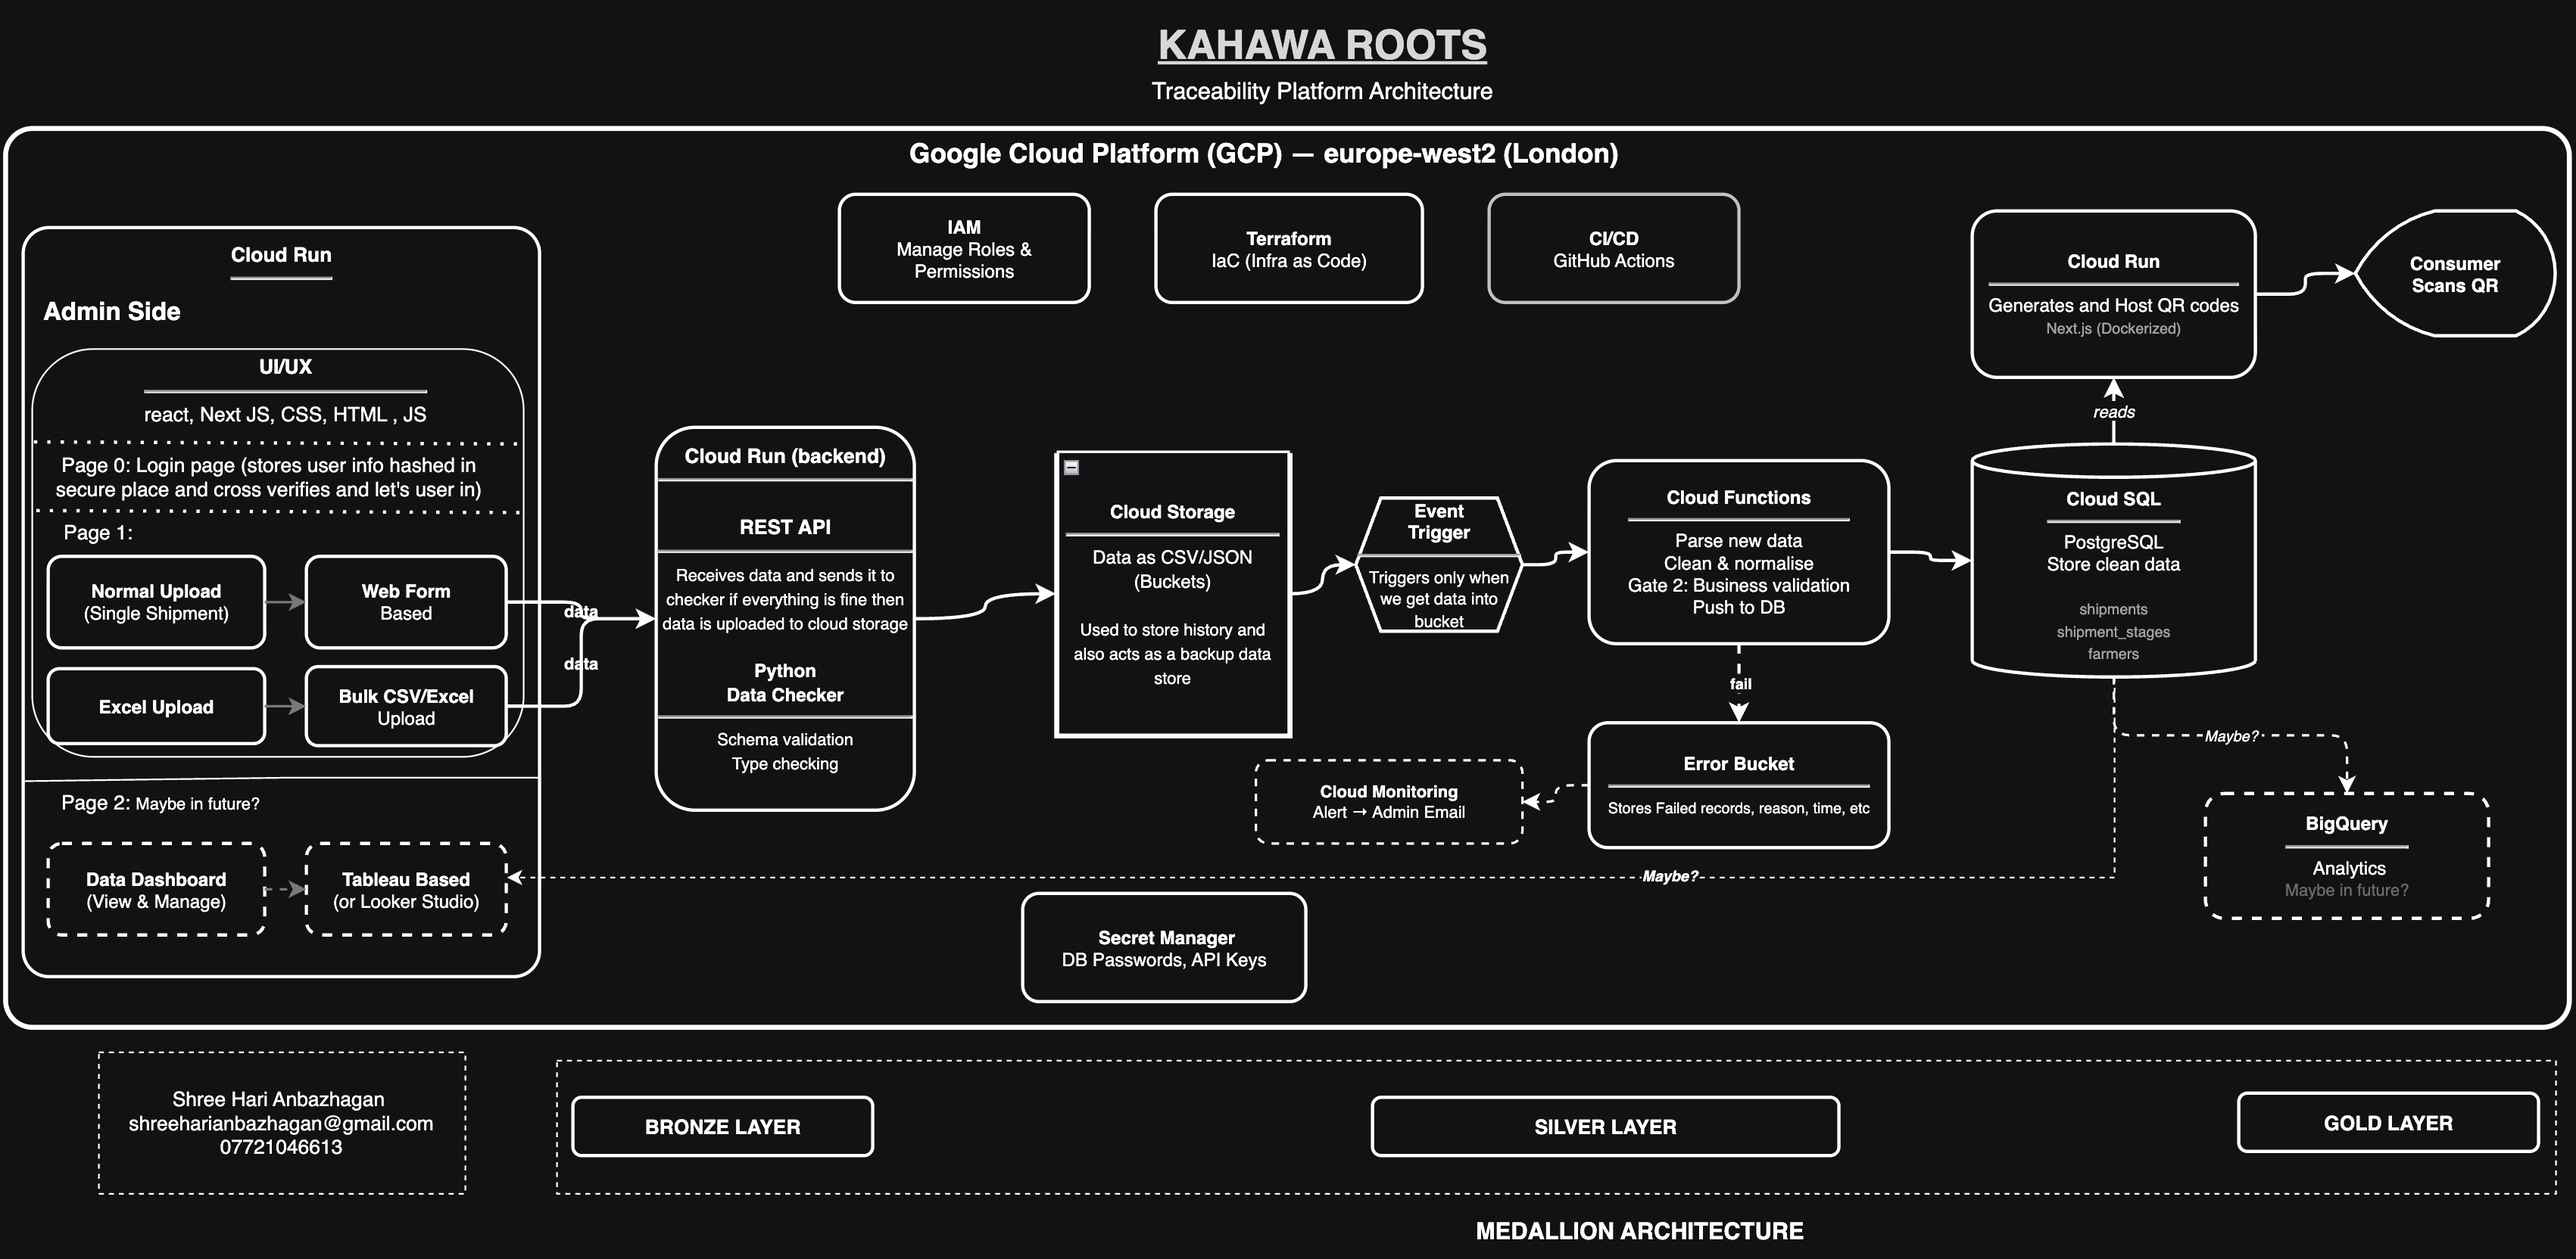
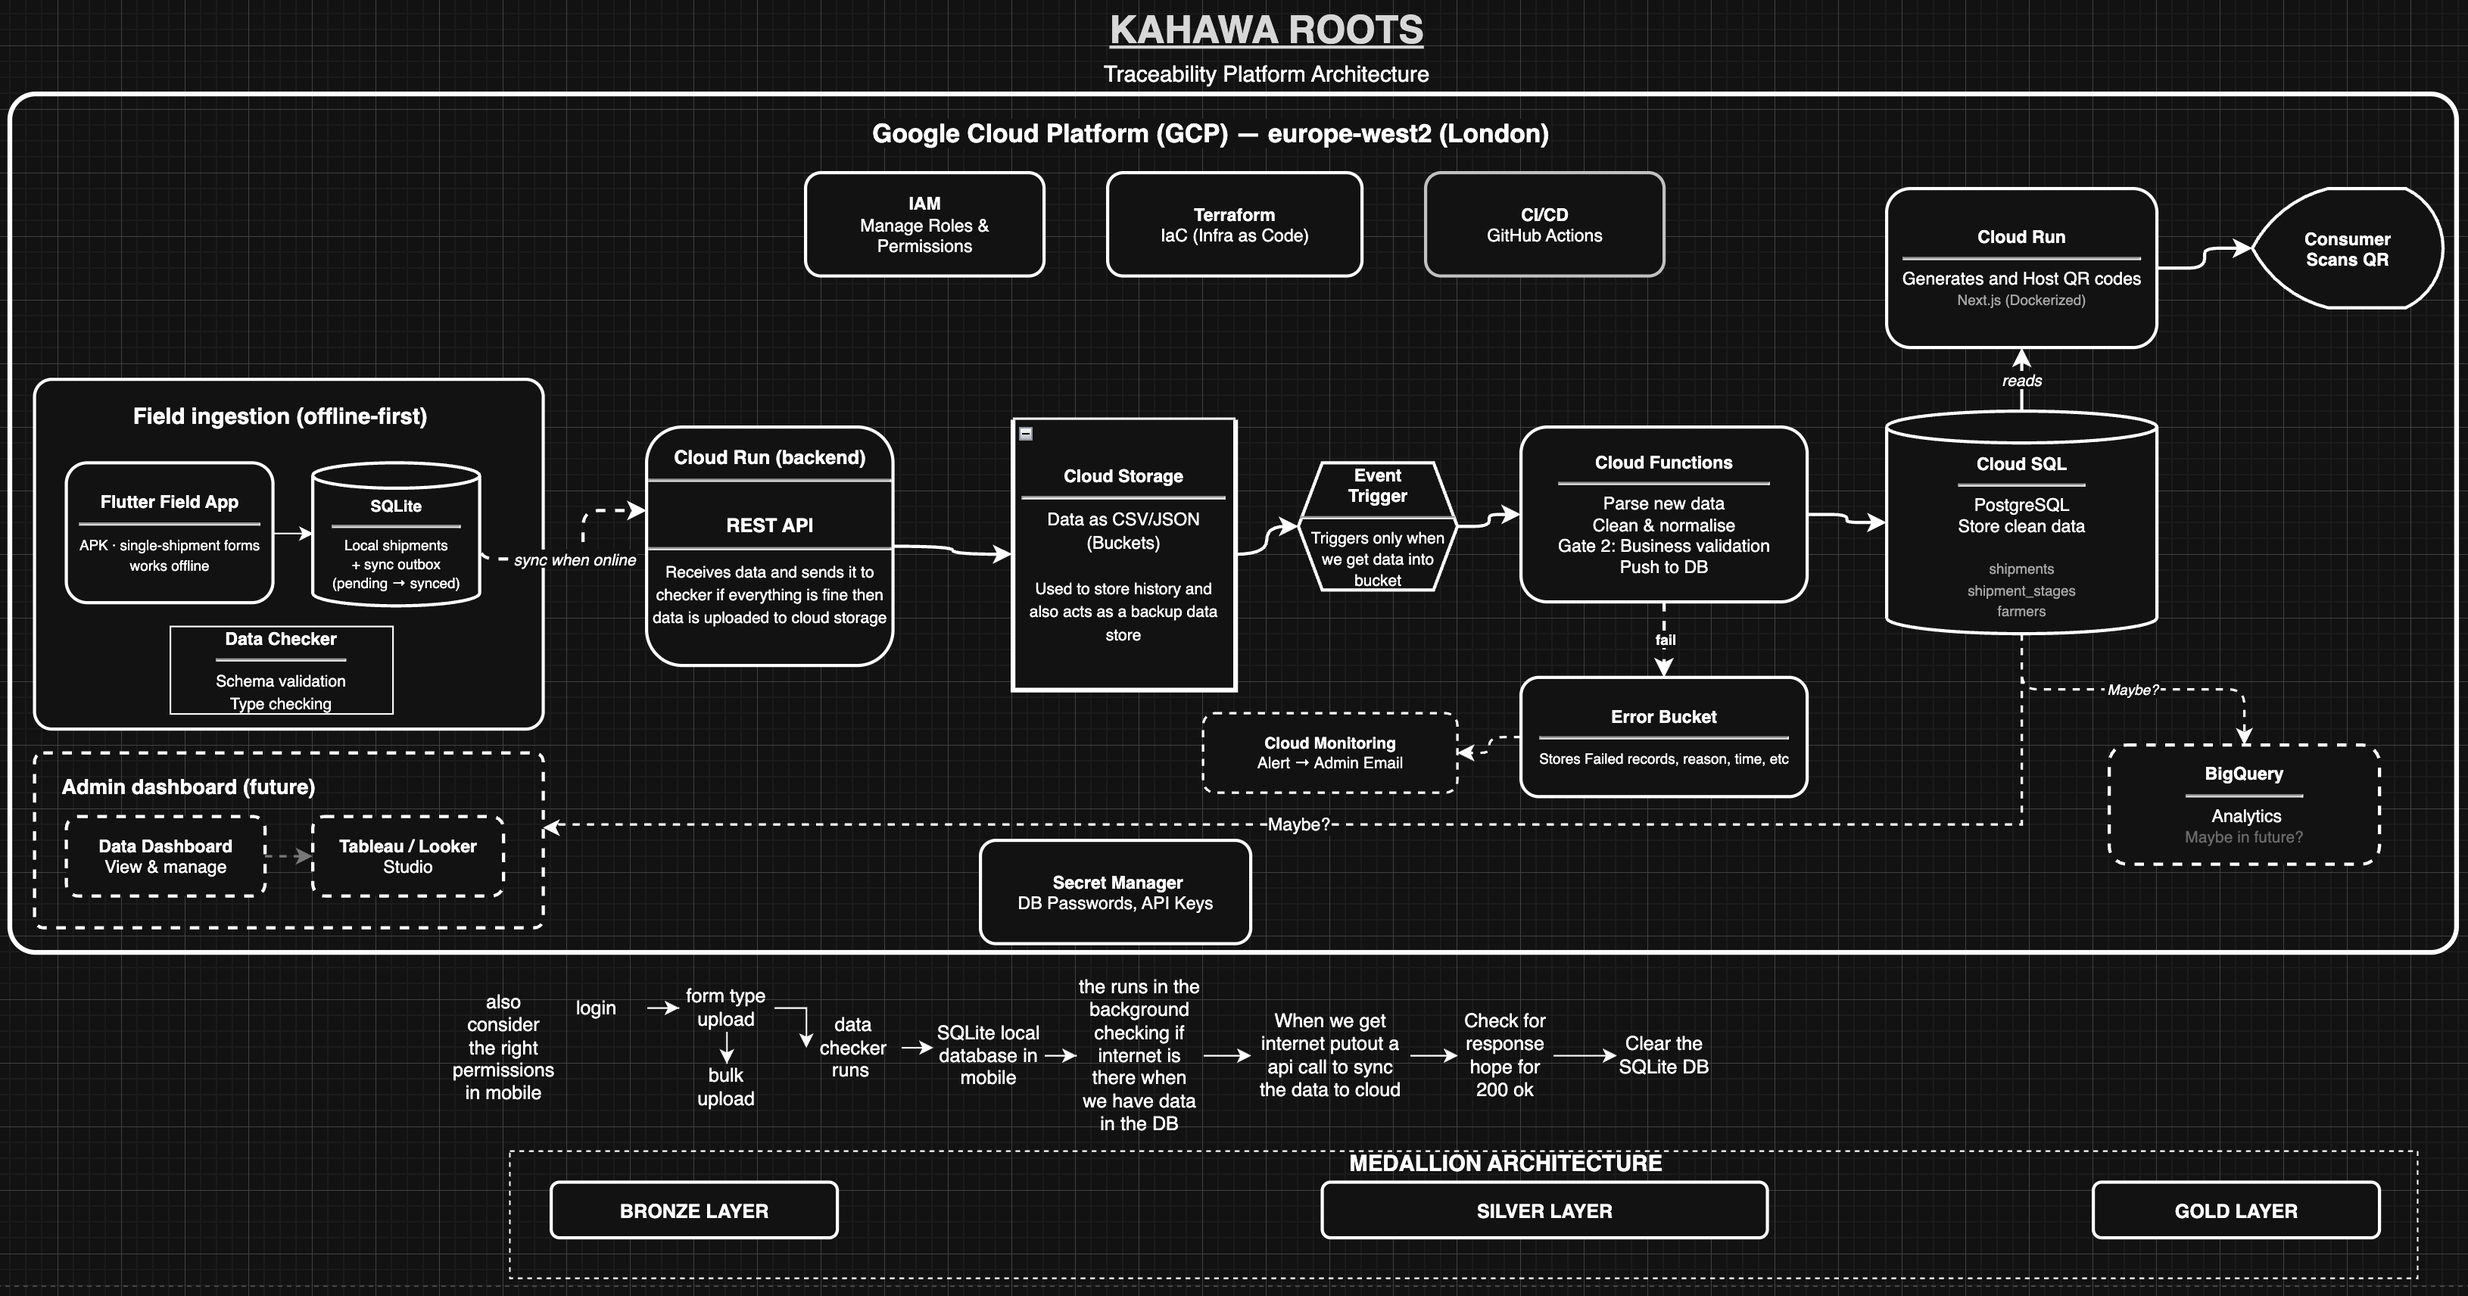
turned to fluter app

Changed region(s): [[0.0, 0.0, 1.0, 1.0], [0.7126, 0.875, 0.7436, 0.9062]]

diff --git a/README.md b/README.md
@@ -33,9 +33,10 @@ Bronze (Cloud Storage)  →  Silver (Cloud SQL/PostgreSQL)  →  Gold (QR Pages)
 
 **Key components:**
 - **3 Cloud Run microservices** — Admin frontend, Backend API, Public QR pages
+- **Flutter field app (APK)** — Offline-first single-shipment capture; SQLite outbox syncs to REST API when online
 - **Cloud Functions** — Event-driven processing triggered on bucket upload
 - **Two-gate validation** — API-level schema checks + Cloud Functions business logic
-- **Two ingestion routes** — Web form (single shipment) + CSV/Excel upload (bulk)
+- **Ingestion routes** — Flutter (field, offline), web form (single shipment), CSV/Excel bulk (office)
 - **Terraform** for IaC, **GitHub Actions** for CI/CD
 
 ## How to View
